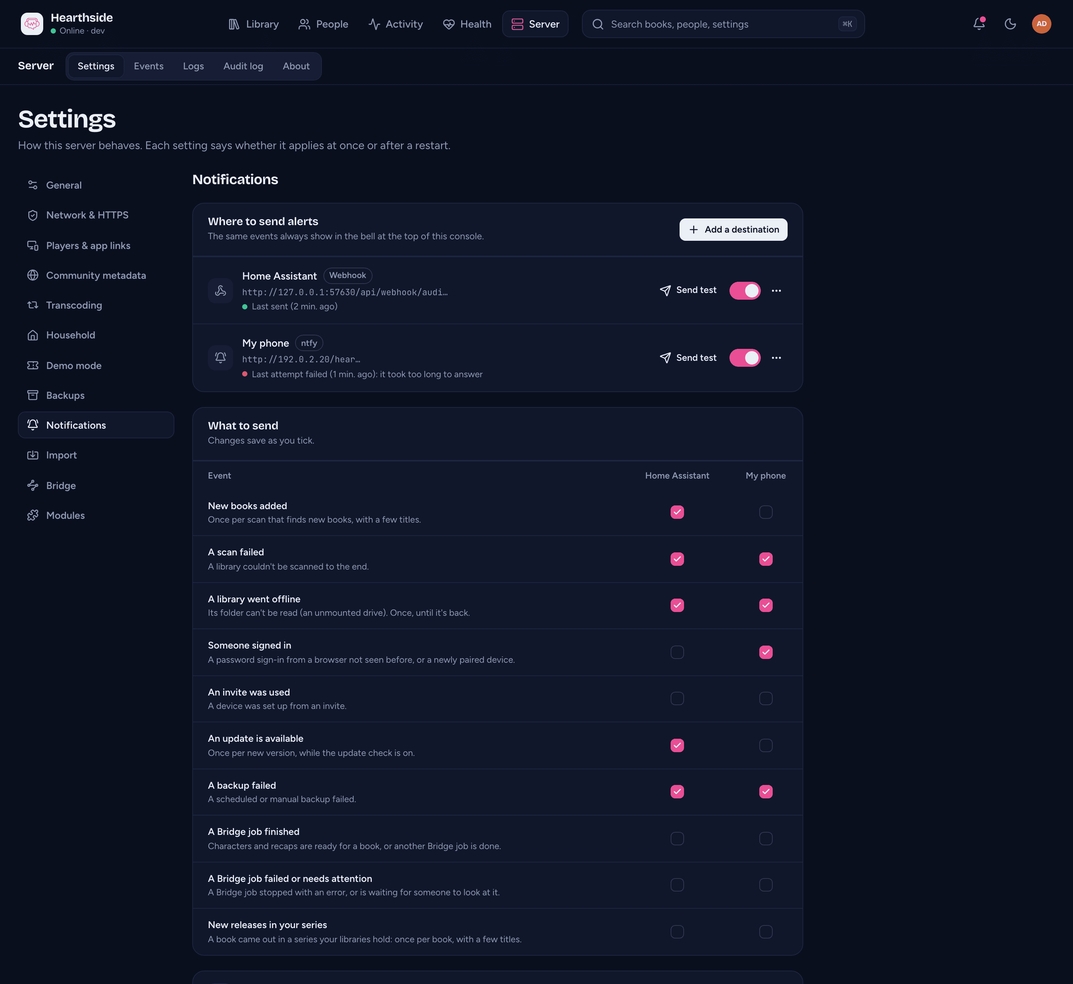
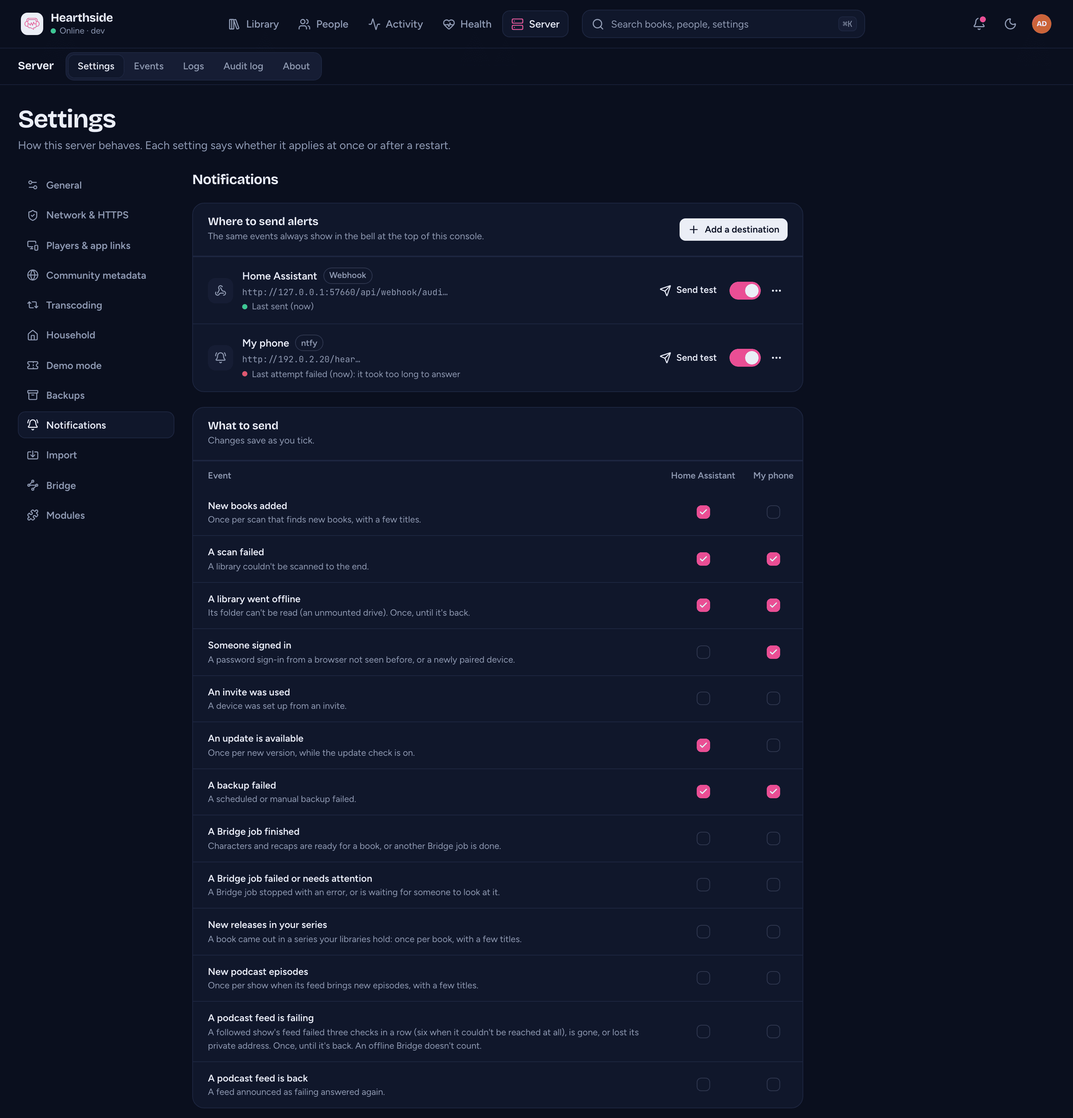
Document the podcast notifications (new episodes, feed failing, feed recovered) (#313)
Documents the podcast notifications from KodeStar/audiosilo-server#232,
which shipped in KodeStar/audiosilo-server#402.

- **User guide.** `admin/notifications.md` and `admin/podcasts.md` add
the three admin-only events:
- new episodes: one per show per index, never on a first index, a rescan
or a backfill;
- a feed failing: after 3 failed polls in a row, or 6 for network
failures; `gone` and a lost secret are reported at once, and an offline
Bridge never counts;
  - a feed recovered.

A podcast library's scan no longer raises `book_added`. New kinds start
unticked on existing destinations. The destination dialog screenshot
shows the podcast events.
- **Developer docs.**
- `server/backups-and-notifications.md` owns the rules: the privacy rule
(codes and show names only, never error text or feed URLs; a private
show sends `private: true` with no titles, `show` or `show_path`), the
feed-failure codes and the Discord colours.
- `server/api/reference.md` covers the webhook data and the destination
kinds.
- `server/data-model.md` adds migration 0076 (`feed_failures`,
`feed_network_failures`, `failing_announced`).
- The mapping table in `contributing/documentation.md` now points at
these pages.

Review: one docs pass (simplify plus a fact check of every claim against
server main 52ee43a and `internal/notify/notify.go`). It fixed four
gaps. `npm run build` passes with no broken links.

diff --git a/docs-developers/contributing/documentation.md b/docs-developers/contributing/documentation.md
@@ -103,7 +103,7 @@ mappings:
 | Auth, invites, shares | [server/auth-and-security.md](../server/auth-and-security.md) + `/users/admin/users-and-invites`, `/users/admin/sharing` |
 | Rate limiting (`api/ratelimit.go`, `rateLimit`, `requireAuth`/`mediaAuth`'s per-credential buckets, `rate_limit.*`) | [auth-and-security.md](../server/auth-and-security.md#rate-limiting) + [api/index.md](../server/api/index.md#rate-limiting) + [configuration.md](../server/configuration.md#rate-limits-rate_limit) + `/users/getting-started/remote-access` (why it's safe, the reverse proxy), `/users/troubleshooting` (Too many tries) |
 | The Bridge: the server's side (`auth/bridge.go`, `internal/bridge`, `handlers_bridge.go`, `handlers_bridge_estimate.go`, the `bridge` capability, the console's `features/bridge/`) or `audiosilo-bridge` (its config, images, compose example, mapping checks, job runner, page, the agent container and its credential hand-off, `sidecars.generate`, `sidecars.describe`, `sidecars.contribute`, `meta.correct`, the setup checklist, the Accounts tab and its GitHub sign-in) | [the Bridge developer pages](../bridge/index.md) (index, pairing and jobs, mappings, characters and recaps, the .audiosilo folder, the agent container, contributions, configuration, development) + the [reference](../server/api/reference.md#the-bridge) + [api/index.md](../server/api/index.md#capability-flags---gate-your-features) (the capability, the codes, the bridge token) + [auth-and-security.md](../server/auth-and-security.md#bridge-tokens) + [data-model.md](../server/data-model.md#the-bridge) + [backups-and-notifications.md](../server/backups-and-notifications.md#events) (the `bridge_job_*` events) + [web-ui.md](../server/web-ui.md) (the console's Settings > Bridge and the book page's Bridge parts) + the [cross-repo contract](../architecture/cross-repo-contract.md#16-the-bridge) (after the workspace `CROSS-REPO.md` §23) + `/users/admin/bridge`, `/users/admin/generating-characters-and-recaps`, `/users/getting-started/running-a-bridge` (its steps follow the setup checklist's order), `/users/getting-started/bridge-accounts` and `/users/community/contributing-from-your-server` + [meta/contributing-data.md](../meta/contributing-data.md#issues-filed-through-the-audiosilo-app) (what the Bridge files, and how meta routes it) + the `admin/settings-bridge*.png`, `admin/bridge-setup.png`, `admin/bridge-pair.png`, `admin/book-generate.png`, `admin/generate-dialog.png` and `admin/book-description.png` screenshots + the Bridge page's `bridge/*.png` screenshots (`capture-bridge.mjs`: `BRIDGE=<checkout> SHOTS_ONLY=bridge/ screenshots/run.sh`) |
-| Podcasts: library kind, `internal/podcast`, catalog/handlers, the Bridge's `podcastjob`, `netguard`, feed/Fetch files, downloads, on-demand/status/Retry and queue prefetch, listener fetch limits, claim priority/reserved capacity, retention aggregates/policies, generations/ETags, publication journals, CHAP or root markers; directory search and OPML (`internal/podcast/{discovery,opml,quota}`, `follow.go`, `opmlimport.go`, `export.go`, `podcasts.discovery.enabled`, the Podcast Index variables) | [bridge/podcasts.md](../bridge/podcasts.md) (with its [discovery and OPML](../bridge/podcasts.md#discovery-and-opml-transfer) section, its [player](../bridge/podcasts.md#player-phase-2d-1) and [player discovery and OPML](../bridge/podcasts.md#player-discovery-and-opml-phase-2d-2) sections) + [server/modules.md](../server/modules.md), [configuration.md](../server/configuration.md#managed-modules-modules) (and its [podcast discovery](../server/configuration.md#podcast-discovery-podcastsdiscovery) section), [API reference](../server/api/reference.md#podcasts) (including admin storage and Bridge retention), [API flags](../server/api/index.md#capability-flags---gate-your-features), [data-model.md](../server/data-model.md#podcasts), [scanner.md](../server/scanner.md#podcast-libraries), [auth-and-security.md](../server/auth-and-security.md#podcast-visibility), [bridge/configuration.md](../bridge/configuration.md#podcasts), [attachments.md](../bridge/attachments.md#podcast-chap-attachments), [mappings.md](../bridge/mappings.md#podcast-libraries-the-marker), [pairing-and-jobs.md](../bridge/pairing-and-jobs.md#podcast-jobs), [bridge/index.md](../bridge/index.md), [cross-repo-contract.md](../architecture/cross-repo-contract.md#17-podcast-shows-feeds-and-client-visibility) + `/users/admin/podcasts`, `/users/admin/libraries`, `/users/admin/bridge`, `/users/admin/server#modules`, `/users/getting-started/running-a-bridge`, `/users/faq` (what a directory search sends) + `admin/libraries.png`, `admin/library-add.png`, `admin/library-add-podcasts.png`, `admin/library-edit.png` and `admin/settings-modules.png` |
+| Podcasts: library kind, `internal/podcast`, catalog/handlers, the Bridge's `podcastjob`, `netguard`, feed/Fetch files, downloads, on-demand/status/Retry and queue prefetch, listener fetch limits, claim priority/reserved capacity, retention aggregates/policies, generations/ETags, publication journals, CHAP or root markers; directory search and OPML (`internal/podcast/{discovery,opml,quota}`, `follow.go`, `opmlimport.go`, `export.go`, `podcasts.discovery.enabled`, the Podcast Index variables) | [bridge/podcasts.md](../bridge/podcasts.md) (with its [discovery and OPML](../bridge/podcasts.md#discovery-and-opml-transfer) section, its [player](../bridge/podcasts.md#player-phase-2d-1) and [player discovery and OPML](../bridge/podcasts.md#player-discovery-and-opml-phase-2d-2) sections) + [server/modules.md](../server/modules.md), [configuration.md](../server/configuration.md#managed-modules-modules) (and its [podcast discovery](../server/configuration.md#podcast-discovery-podcastsdiscovery) section), [API reference](../server/api/reference.md#podcasts) (including admin storage and Bridge retention), [API flags](../server/api/index.md#capability-flags---gate-your-features), [data-model.md](../server/data-model.md#podcasts), [scanner.md](../server/scanner.md#podcast-libraries), [auth-and-security.md](../server/auth-and-security.md#podcast-visibility), [bridge/configuration.md](../bridge/configuration.md#podcasts), [attachments.md](../bridge/attachments.md#podcast-chap-attachments), [mappings.md](../bridge/mappings.md#podcast-libraries-the-marker), [pairing-and-jobs.md](../bridge/pairing-and-jobs.md#podcast-jobs), [bridge/index.md](../bridge/index.md), [cross-repo-contract.md](../architecture/cross-repo-contract.md#17-podcast-shows-feeds-and-client-visibility), [backups-and-notifications.md](../server/backups-and-notifications.md#podcast-events) (the podcast notifications) + `/users/admin/podcasts`, `/users/admin/notifications#podcasts`, `/users/admin/libraries`, `/users/admin/bridge`, `/users/admin/server#modules`, `/users/getting-started/running-a-bridge`, `/users/faq` (what a directory search sends) + `admin/libraries.png`, `admin/library-add.png`, `admin/library-add-podcasts.png`, `admin/library-edit.png` and `admin/settings-modules.png` |
 | The player's podcasts: `src/components/podcasts/`, `src/playback/episode-fetch.ts`, Home's New episodes (`new-episodes-*`, `use-new-episodes.ts`), the `shows` Library mode, `src/lib/library-kind.ts`, the podcast client gate (`auth.PodcastPlayerMinVersion`, `app.json` `expo.version`, `client-id.ts`), the gated whole-list replace (`catalog.GatedScopes`); finding shows (`find-shows-*`, `directory-search.tsx`, `discovery-*`, `follow-by-url.tsx`, `follow-requests.tsx`, `opml-*`, `use-opml-import.ts`, `shows-actions.tsx`, `check-episodes-button.tsx`, `artwork-retry.ts`, `src/lib/podcast-requests.ts`, `findShowsHref`, the `podcast_discovery` / `podcast_opml` client methods and hooks), the server's CORS lists (`corsAllowHeaders`, `corsExposeHeaders`) | [frontend/podcasts.md](../frontend/podcasts.md) (and its [Finding shows](../frontend/podcasts.md#finding-shows)) + [bridge/podcasts.md](../bridge/podcasts.md#player-phase-2d-1) (the wire and the controller's rules; [discovery and OPML](../bridge/podcasts.md#player-discovery-and-opml-phase-2d-2) for 2d-2) + [api/index.md CORS](../server/api/index.md#cors) and [cross-repo-contract.md §12](../architecture/cross-repo-contract.md#12-cors-for-web-development) + [auth-and-security.md](../server/auth-and-security.md#podcast-visibility) + the [reference](../server/api/reference.md#podcasts) (the gate, the replace rules) + [api/index.md](../server/api/index.md#client-identification-x-audiosilo-client) + the lines in [playback.md](../frontend/playback.md), [state-and-data.md](../frontend/state-and-data.md), [offline.md](../frontend/offline.md), [chromecast.md](../frontend/chromecast.md), [end-of-book.md](../frontend/end-of-book.md) and [kids-mode.md](../frontend/kids-mode.md) + `/users/listening/podcasts` (and the podcast lines in `browsing`, `up-next`, `end-of-book`, `offline-downloads`, `chromecast`, `kids-mode`, `mobile-apps`, `/users/troubleshooting`, `/users/admin/podcasts`, `/users/admin/server#modules`, `/users/faq`) + the `web-player/library-shows.png`, `podcast-show.png`, `home-new-episodes.png`, `episode-fetching.png`, `phone-podcast-show.png`, `find-shows-search.png`, `find-shows-address.png`, `find-shows-import.png` and `phone-find-shows.png` screenshots (the podcast seed in `run.sh` and its `directory` fixture; Find shows' stand-in routes in `capture-web.mjs`) |
 | Managed modules: the server's `internal/modules` (its `Runner`, the `builtin` registry), `api/modules.go`, a `modules.<id>` setting, the console's Settings > Modules (`features/settings/modules-topic.tsx`), the player's `src/modules/` registry and slots | [server/modules.md](../server/modules.md) (+ the adding-a-module steps) + [configuration.md](../server/configuration.md#managed-modules-modules) (the key, the variable, the runtime table) + the [reference](../server/api/reference.md#get-apiv1adminmodules) (`GET /admin/modules`, the settings envelope's `modules`, the module's flag on `GET /server`, the module's Bridge jobs) + [api/index.md](../server/api/index.md#capability-flags---gate-your-features) (the flag, `module_off`, `kid_account`, `demo_account`) + [bridge/pairing-and-jobs.md](../bridge/pairing-and-jobs.md#jobs-of-a-managed-module) (the jobs a module owns, held while it is off) + [web-ui.md](../server/web-ui.md) + [frontend/state-and-data.md](../frontend/state-and-data.md#player-modules-srcmodules) + the [cross-repo contract](../architecture/cross-repo-contract.md#8-capability-flags-get-apiv1server) + `/users/admin/server#modules` (the console's Learn more link opens it: keep the heading) + `/users/admin/bridge#when-the-contributions-module-is-off` + the `admin/settings-modules.png` screenshot |
 | Audible accounts, backups and position sync (Bridge Phases 4a, 4b and 4c): the server's `catalog/audible.go`, `catalog/audible_import.go`, `catalog/audible_sync.go` (and FurthestOnly in `catalog/listening_sync.go`), `internal/audible` (the scheduler, `imports.go`), `bridge/audible.go` (`audible.poll`, `audible.import`, `audible.sync`), `api/handlers_audible.go`, `api/handlers_audible_sync.go`, `0063`, `0064`, `0065` (planned destinations, contests), `0066` (sync, `no_sync`, `progress.change_seq`), the `audible` module and flag, the console's `features/audible/` (the Audible accounts card, Settings > Audible); the Bridge's `internal/audible` (the client, the build-tagged fake and `AUDIOSILO_BRIDGE_AUDIBLE_*`), `audibleacct`, `audiblejob` (`import.go`), `audiblesync` (the job and the push loop), `link/audiblesync.go`, `0011` (`audible_push`, `refusal_kind`), `importjob`, `placement`, `transfer`, `fsutil`'s install, `link/audible.go`, `0009`, `0010` (the device profile), `redact.go`, `audiblejob/plan.go`, the Accounts tab's `AudibleCard`, the `audible` setup item | [bridge/audible.md](../bridge/audible.md) + [bridge/configuration.md](../bridge/configuration.md#audible) (and its Secrets) + [bridge/development.md](../bridge/development.md) (the tagged gate) + [pairing-and-jobs.md](../bridge/pairing-and-jobs.md#audible-jobs) (and its setup checklist) + the [reference](../server/api/reference.md#audible-accounts) (and 4c's [position sync](../server/api/reference.md#audible-position-sync) routes, the reserved `audible:` device id on `/me/listening/sync` and the progress `PUT`, and the module flag on `GET /server`, `features`, `GET /admin/modules`) + [api/index.md](../server/api/index.md#capability-flags---gate-your-features) (the flag, the codes) + [server/modules.md](../server/modules.md) + [configuration.md](../server/configuration.md#managed-modules-modules) + [data-model.md](../server/data-model.md#the-bridge) (`0063`, `0064`, `0065`, `0066`; `progress.change_seq`) + [web-ui.md](../server/web-ui.md) + the [cross-repo contract](../architecture/cross-repo-contract.md#16-the-bridge) (after the workspace `CROSS-REPO.md` §8, §23 and §25) + `/users/admin/audible` (its sync section), `/users/listening/playback` (Places from Audible), `/users/getting-started/bridge-accounts#audible`, `/users/admin/bridge` (the card, the setup step), `/users/admin/server#modules` + the `admin/audible-accounts-card.png`, `admin/audible-titles.png`, `admin/audible-backup-settings.png`, `admin/audible-backup-all.png`, `admin/audible-destination.png`, `bridge/accounts-audible.png` and `bridge/audible-sign-in.png` screenshots (`capture-bridge.mjs` against a Bridge built with `-tags audiblefake` and the fake: `SHOTS_ONLY=bridge/,admin/audible screenshots/run.sh`). Copy about backing up says "a personal backup of books you bought" and "check your local law", never that it is legal everywhere |

diff --git a/docs-developers/server/backups-and-notifications.md b/docs-developers/server/backups-and-notifications.md
@@ -324,7 +324,7 @@ subscribed to its kind. A nil `*Service` does nothing, so callers don't check.
 
 | Kind | Fired by | `data` |
 |---|---|---|
-| `book_added` | `Scanner.OnRunFinished`: a scan job ending `ok` or `partial` that added books (once per scan) | `library`, `library_id`, `count`, `titles` (the first five) |
+| `book_added` | `Scanner.OnRunFinished`: a scan job ending `ok` or `partial` that added books (once per scan), never for a podcast library, whose episodes are `podcast_episodes_new` | `library`, `library_id`, `count`, `titles` (the first five) |
 | `scan_failed` | a scan job ending `failed` | `library`, `library_id`, `run_id`, `detail` (the error, as the scan's log has it; **bell only**, see below) |
 | `library_unavailable` | a scan job ending `unavailable`, only when the library's previous scan that reached an answer wasn't unavailable. `catalog.PreviousRunStatus` passes over cancelled, interrupted and running scans, so a restart in between doesn't announce it again. | `library`, `library_id` |
 | `new_device` | every pairing exchange (`POST /auth/exchange`), and a password sign-in (`POST /auth/login`) unless an earlier session of the same person already carried its `device_id` (`auth.IssueSession`). A sign-in without a `device_id` always counts. Never for demo accounts. | `user`, `device` (the name the client sent, one plain line of at most 100 characters), `app` (from `X-AudioSilo-Client`, may be empty) |
@@ -334,6 +334,9 @@ subscribed to its kind. A nil `*Service` does nothing, so callers don't check.
 | `bridge_job_finished` | `bridge.Service.OnTransition` (wired by `API.SetBridge`): a [Bridge](../bridge/index.md) job moved **into** `done` | `job_id`, `job_kind`, `state`, `library`, `library_id`, `path`, `title`, plus per-kind fields. See [Bridge event data](#bridge-event-data). |
 | `bridge_job_failed` | the same hook, for a job that moved **into** `failed` or into a notable `needs_attention`. See [Bridge event data](#bridge-event-data). | as `bridge_job_finished`, plus `code` and `detail` |
 | `book_released` | the [upcoming releases](api/reference.md#upcoming-releases) job (`upcoming.Runner`, wired to `API.announceReleases`). See [`book_released`](#book_released). | `count`, `titles` (the first five, each `Title (Series #position)`, or `Title (Series)` without a position) |
+| `podcast_episodes_new` | `catalog.IndexPodcastShow`, once per show per index that found episodes new to it. See [Podcast events](#podcast-events). | `library`, `library_id`, `show_id`, `show`, `show_path` (a private show: `private` instead), `count`, `titles` (the first five, newest first) |
+| `podcast_feed_failing` | `catalog.FoldPodcastJob` for a `podcast.poll` that makes the feed's run of failures due, or ends `gone` or `feed_secret_missing`. Once per run. | `library`, `library_id`, `show_id`, `show`, `show_path` (a private show: `private` instead), `code`, `failures` |
+| `podcast_feed_recovered` | `catalog.FoldPodcastJob` for the first successful `podcast.poll` after `podcast_feed_failing` | `library`, `library_id`, `show_id`, `show`, `show_path` (a private show: `private` instead) |
 
 `notify.Kinds` lists the kinds in this order, which is the order the console
 shows.
@@ -390,6 +393,70 @@ holds, and the server must hold no copy of it anywhere.
 - The first run, and the first read of a series, is a **silent baseline**. What
   is out already is marked, not announced.
 - `dedup_key` is `released:` plus a digest of the run's work ids.
+
+#### Podcast events
+
+The three podcast kinds go to the admins only. The catalog raises them through
+`catalog.SetPodcastNotice` after the write that found them commits, and
+`notify.Service.PodcastNotice` turns each `catalog.PodcastNotice` into an
+event.
+
+`podcast_episodes_new` comes from `catalog.IndexPodcastShow`. An episode is new
+when all of these hold:
+
+- the show was indexed before under the same `show_id`;
+- the episode's path wasn't indexed;
+- it isn't removed from the feed, and it was published after the show's
+  previous `latest_published`. When that date is ahead of the clock (a
+  mistyped date in the feed), the newest indexed episode not dated in the
+  future is used instead.
+
+So nothing is announced for a show's first index, a forced rescan of a feed
+already indexed, a rebuilt index or missing rows indexed again. The Bridge's rescan
+after a poll that grew the feed does announce. `dedup_key` is the library id,
+the show id and a digest of the new episode ids (`notify.SetDigest`), so the
+scheduled scan and the Bridge's rescan can't both announce the same episodes.
+
+`podcast_feed_failing` and `podcast_feed_recovered` come from
+`catalog.FoldPodcastJob`, for `podcast.poll` jobs only. A `podcast.subscribe`
+never changes the run. `podcast_folded` keeps a fold that runs twice from announcing twice.
+The run lives in `podcast_feed_state` (see the
+[data model](data-model.md#podcasts)); the older `failures` column still drives
+the backoff on its own. `catalog.feedRun.next` decides:
+
+- A failure whose code is the feed's own (`bridge.FeedFailure`: any code
+  outside `notFeedFailures`, the set the OPML import's
+  [recently failed feeds](api/reference.md#opml-import-and-export) use) adds
+  one to `feed_failures`.
+- Network-class codes (`bridge.NetworkFailure`: `dns`, `network`, `timeout`,
+  `tls`) also add one to `feed_network_failures`. Every show fails with these
+  at once while the Bridge's own internet is down.
+- The run is due (`feedRun.due`) at three of the feed's other failures
+  (`catalog.FeedFailingAfter`) or six network failures
+  (`catalog.NetworkFailingAfter`). A mixed run is due once other/3 plus
+  network/6 reaches 1, such as two HTTP errors and two timeouts.
+- `gone` is announced at once. `feed_secret_missing` is announced at once
+  without counting, with `failures` 0.
+- Any other failure, such as `bridge_lost` or an unwritable library, neither
+  counts nor resets the run. An offline Bridge claims no polls, so it adds
+  nothing either.
+- The run announces once (`failing_announced`). The next successful poll
+  resets it and, after an announcement, raises `podcast_feed_recovered` once.
+- A job for a replaced show (another `show_id` at the path) changes nothing.
+
+The data carry codes and names only, never the feed's address, its host or an
+error's text, which can hold a private feed's credentials:
+
+- `show` is the show's title, or its folder when it has none, one plain line of
+  at most 200 characters. `titles` are cut the same way.
+- `code` is one the messages have wording for (`gone`, `feed_secret_missing`, `dns`,
+  `network`, `timeout`, `tls`, `not_a_feed`, `not_a_podcast`, `too_large`,
+  `blocked_address`, `invalid_feed_url`) or an `http_NNN` status, else
+  `failed`.
+- `failures` is the feed's failures in a row, 0 for a lost secret.
+
+A private show is hidden from admins who don't follow it. Its events carry
+`private: true` instead of `show` and `show_path`, and `titles` is empty.
 
 #### Bridge messages
 
@@ -459,6 +526,18 @@ A `book_released` message reads `1 new release in your series` (or `N new
 releases in your series`), with the titles one a line and `and N more` after
 the fifth. It links to the console's Library > Series and carries the ntfy tag
 `new` (priority 3). The bell shows the first three titles, then "and N more".
+
+The podcast messages link to the console's Library > Libraries:
+
+| Kind | Title | Text |
+|---|---|---|
+| `podcast_episodes_new` | `1 new episode of <show>` or `N new episodes of <show>`; private: `A private podcast has 1 new episode` or `A private podcast has N new episodes` | the titles, one a line, then `and N more`; none for a private show |
+| `podcast_feed_failing` | `A podcast feed is failing: <show>`; private: `A private podcast feed is failing` | the code in words (`notify.feedCodeText`), `The feed answered HTTP <status>.` or `The Bridge couldn't check the feed.`, then `N checks in a row failed.` when `failures` is more than 1 |
+| `podcast_feed_recovered` | `A podcast feed is back: <show>`; private: `A private podcast feed is back` | "The feed answered again, so new episodes arrive as before." |
+
+The bell words the same codes in the console's language (`feedFailureBody` in
+`lib/server-events.ts`), with the titles `Podcast feed failing: <show>` and
+`Podcast feed back: <show>`.
 
 A failed scan's `detail`, and a failed Bridge job's, is the tool's or the
 operating system's own message, which can name a folder on the server, so it
@@ -532,7 +611,10 @@ The fields:
 - `secret`: at most 256 characters, no control characters. It is a webhook's
   signing secret or an ntfy access token. A Discord destination takes none,
   because its address is its secret.
-- `events`: known kinds only, with repeats dropped.
+- `events`: known kinds only, with repeats dropped. A destination gets only the
+  kinds it lists, so a kind a newer server adds starts unticked on every
+  existing destination. The console preselects its
+  [problem events](web-ui.md#server--settings--notifications) for a new one.
 
 A server has at most 20 destinations (`409 too_many_targets`).
 
@@ -624,10 +706,12 @@ non-ASCII titles encoded. With a secret, the service sends it as
 
 - `message` falls back to the title when an event has no text.
 - `click` is left out when there is no link.
-- Priority is 4 for `scan_failed`, `library_unavailable` and `backup_failed`,
-  and 3 otherwise.
+- Priority is 4 for `scan_failed`, `library_unavailable`, `backup_failed`,
+  `bridge_job_failed` and `podcast_feed_failing`, and 3 otherwise.
 - Tags are emoji shortcodes: `books`, `warning`, `electric_plug`, `iphone`,
-  `envelope`, `package`, `new` for a release, and `white_check_mark` for a test.
+  `envelope`, `package`, `new` for a release, `studio_microphone` for new
+  podcast episodes, and `white_check_mark` for a finished Bridge job, a feed
+  that is back and a test.
 
 ### Discord
 
@@ -648,8 +732,10 @@ A Discord delivery is one embed, posted to the webhook address:
 ```
 
 - The title is cut at 256 characters and the description at 4000.
-- The colour is blue for information, amber for `library_unavailable`, and red
-  for `scan_failed` and `backup_failed`.
+- The colour is blue for information, amber for `library_unavailable`,
+  `podcast_feed_failing`, a Bridge job that needs attention and a LibriVox book
+  left unmatched, and red for `scan_failed`, `backup_failed` and a failed Bridge
+  job.
 - `allowed_mentions` is empty, so a book title or a device name containing
   `@everyone` pings nobody.
 

diff --git a/docs-users/admin/notifications.md b/docs-users/admin/notifications.md
@@ -1,11 +1,12 @@
 ---
 title: "Get notifications"
-description: "Hear about new books, new releases, failed scans or backups, new sign-ins and updates, in the console's bell or on your phone, Discord or a webhook."
+description: "Hear about new books, new releases, new podcast episodes, failed scans or backups, new sign-ins and updates, in the console's bell or on your phone, Discord or a webhook."
 ---
 
 Your server can tell you when something happens: new books, a new release in a
-series you hold, a failed scan or backup, a new sign-in, an update. You always
-see these in the **bell** in the [admin console](console-tour.md). You can also
+series you hold, new podcast episodes, a failed scan or backup, a new sign-in,
+an update. You always see these in the **bell** in the
+[admin console](console-tour.md). You can also
 send them to your phone with [ntfy](https://ntfy.sh), to a Discord channel, or
 to a webhook such as Home Assistant. You need to be an admin.
 
@@ -55,7 +56,7 @@ Tick a box to send that event there. It saves as you tick.
 
 | Event | When it happens |
 |---|---|
-| **New books added** | A scan found new books. |
+| **New books added** | A scan found new books. A podcast library's new episodes come as **New podcast episodes** instead. |
 | **A scan failed** | A library couldn't be scanned. See [Health > Jobs](health.md#jobs). |
 | **A library went offline** | A library's folder can't be read, such as an unmounted drive. Nothing was removed. |
 | **Someone signed in** | A sign-in from a new device or browser. |
@@ -65,12 +66,39 @@ Tick a box to send that event there. It saves as you tick.
 | **A Bridge job finished** | The [Bridge](bridge.md) finished a job, such as [characters and recaps](generating-characters-and-recaps.md) or a [read-along](making-read-along.md). |
 | **A Bridge job failed or needs attention** | A Bridge job stopped with an error, or is waiting for you. |
 | **New releases in your series** | A book came out in a series you hold, and you don't have it. Needs **Check for upcoming releases** on ([Community metadata](server.md#community-metadata)). |
+| **New podcast episodes** | A followed show's feed brought new episodes. One message per show, with a few titles. See [Podcasts](#podcasts). |
+| **A podcast feed is failing** | A followed show's feed failed several checks in a row, is gone, or the Bridge lost its private address. |
+| **A podcast feed is back** | A feed reported as failing answered again. |
 
-Every event shows in the bell whether you send it anywhere or not.
+Every event shows in the bell whether you send it anywhere or not. When a server
+update adds a new event, it starts unticked on the destinations you already have.
+
+## Podcasts
+
+The podcast events need a [podcast library](podcasts.md). The server sends them
+like this:
+
+- **New podcast episodes** comes when a show's feed brings episodes newer than
+  the ones the server had. A show's first check sends nothing.
+- **A podcast feed is failing** comes after three failed checks in a row. When
+  the feed couldn't be reached at all, such as no answer in time, it waits for
+  six. That way a short outage of the Bridge's own internet sends nothing.
+- A feed that reports it is gone, and a private feed whose address the Bridge
+  lost, are reported at once.
+- An offline Bridge, or a library the Bridge can't write to, never counts as
+  the feed failing.
+- Each problem is reported once. When the feed answers again, you get
+  **A podcast feed is back**, also once.
+
+Only the followers of a [private feed](podcasts.md#private-feeds) can see its
+show. So its messages say "a private podcast", with no show name and no episode
+titles.
 
 ## What a message carries
 
 Messages carry names, book titles, counts and a link into the console (when the
 server has a [public address](server.md#general)). They never carry a
-password, invite code, token, IP address or a folder path on the server.
+password, invite code, token, IP address, a folder path on the server or a
+podcast feed's address. A failing feed's message says what went wrong, such as
+the HTTP status the feed answered.
 Messages are in English.

diff --git a/docs-developers/server/data-model.md b/docs-developers/server/data-model.md
@@ -1587,7 +1587,7 @@ show id. The current tables:
 | `podcast_feed_hashes` | Current and previous URL hashes, keyed `(library_id, sha256, show_path)`. Cascades with its indexed show. |
 | `podcast_episodes` | A rebuildable one-to-one row for `books.id`, with cascade. It holds the library and show path; the episode id and GUID; the publication; season, episode, type and explicit; the feed duration; the file's `present`; the generation; the removed time; and the duration source. 0054 adds `sha256`, `timeline_changed`, `fetch_json` and `feed_sig`. 0073 adds `indexed_at` (described after the table). |
 | `podcast_follows` | Durable `(user_id, library_id, show_path)`, the created time and the followed `show_id`. There is no FK to the show or `books`, so pruning keeps it, but a different show at the same path does not inherit private access. |
-| `podcast_feed_state` | Server-owned `(library_id, show_path, show_id)` validators; the last check, success and status; the error code and text; `secret_missing`; the failure count; the next poll. Not written to disk per poll. |
+| `podcast_feed_state` | Server-owned `(library_id, show_path, show_id)` validators; the last check, success and status; the error code and text; `secret_missing`; the failure count; the next poll. Not written to disk per poll. 0076 adds the failing-feed run (described after the table). |
 | `podcast_policies` | Durable `(library_id, show_path, show_id)` policy: `mode` (`keep`, `on_demand`, `archive`), `keep` (1..1000), `days` (0..365), `updated_at`. No override means Keep 3, days 7. |
 | `podcast_fetch_state` | Server-owned `(library_id, rel_path, show_id)` summary: a nullable `last_job_id`, failures, the next attempt, and a safe error code and text. Separate from poll status, with no FK to jobs or the episode index. |
 | `podcast_folded` | `job_id` primary key and the fold time `at`. Makes ended-job follow and status effects idempotent. |
@@ -1597,6 +1597,16 @@ index wrote the row with. A rollback scans a podcast library as books, so an
 older server can rewrite a books row in place. That row then no longer matches
 its stamp, and the next scan re-indexes the show. `PodcastEpisodeRows` counts
 only rows whose stamps agree, and `NULL` counts as matching.
+
+`podcast_feed_state.feed_failures`, `feed_network_failures` and
+`failing_announced` *(0076, all `INTEGER NOT NULL DEFAULT 0`)* are a feed's run
+of failed polls as the admin's notifications count it. `feed_failures` counts
+the polls in a row that the feed itself failed, and `feed_network_failures`
+how many of those were network-class. `failing_announced` records that
+`podcast_feed_failing` was raised for the run. The older `failures` still
+drives the backoff. A feed already failing at the upgrade counts from its next
+failure. The counting rules are in
+[Podcast events](backups-and-notifications.md#podcast-events).
 
 #### Ownership, cascades and private URLs
 
@@ -2231,6 +2241,7 @@ The migration history so far:
 | 0071 | `audible_sync_followups` | The `audible_title_match_update` trigger, recreated so a `preorder` title is left out of the sync and its release re-offers the book's place; `audible_accounts.refusal_ended_at` (see [The Bridge](#the-bridge)). No data moves |
 | 0073 | `podcast_episode_indexed` | `podcast_episodes.indexed_at`, backfilled from each episode's `books.indexed_at` (see [Podcasts](#podcasts)) |
 | 0074 | `book_hints` | [Match hints from an import](#match-hints-from-an-import): `book_hints` (`library_id` `ON DELETE CASCADE`, `path`, `source`, `asin` and `isbn` `TEXT NOT NULL DEFAULT ''`, `import_id` `INTEGER NOT NULL DEFAULT 0`, `set_at`; primary key `(library_id, path, source)`) and the index `idx_book_hints_import` on `import_id`. No data moves |
+| 0076 | `podcast_feed_notices` | `podcast_feed_state.feed_failures`, `feed_network_failures` and `failing_announced` (`INTEGER NOT NULL DEFAULT 0`), the failing-feed run of the podcast notifications (see [Podcasts](#podcasts)). No backfill |
 
 ## SQLite choices
 

diff --git a/docs-developers/server/api/reference.md b/docs-developers/server/api/reference.md
@@ -9751,8 +9751,11 @@ A destination reads:
 *Admin.* `{"targets": [...], "events": [...], "kinds": [...]}`: the
 destinations (oldest first), the event kinds the server knows (`book_added`,
 `scan_failed`, `library_unavailable`, `new_device`, `invite_redeemed`,
-`update_available`, `backup_failed`, `bridge_job_finished`, `bridge_job_failed`)
-and the destination kinds.
+`update_available`, `backup_failed`, `bridge_job_finished`, `bridge_job_failed`,
+`book_released`, `podcast_episodes_new`, `podcast_feed_failing`,
+`podcast_feed_recovered`) and the destination kinds. A kind a newer server
+adds starts unticked on existing destinations
+([Destinations](../backups-and-notifications.md#destinations)).
 
 ### `POST /api/v1/admin/notifications`
 
@@ -9834,7 +9837,9 @@ A failed delivery is not an HTTP error here: the answer is `200` either way,
 
 `data` per kind is in [Events](../backups-and-notifications.md#events) (a
 failed scan's `detail` is here, for the bell, but never sent to a destination);
-`next_before` is `0` on the last page. A `before` that isn't a non-negative
+`next_before` is `0` on the last page. Podcast events never carry the feed's
+address, and a private show's carry `private: true` instead of its name
+([Podcast events](../backups-and-notifications.md#podcast-events)). A `before` that isn't a non-negative
 number, or a `kind` that isn't an event kind, is `400`.
 
 ## Admin: audit log

diff --git a/docs-users/features.md b/docs-users/features.md
@@ -76,7 +76,7 @@ Everything else works with the server alone.
 - [Move over from Audiobookshelf](getting-started/coming-from-audiobookshelf.md): read the same folders, then bring book details and listening history across.
 - [Reach your server from outside your home](getting-started/remote-access.md): a domain name and a trusted certificate.
 - [Back up your server](admin/backups.md): scheduled and manual backups, and restore.
-- [Notifications](admin/notifications.md): new books, failed scans and sign-ins, on your phone, Discord or a webhook.
+- [Notifications](admin/notifications.md): new books and podcast episodes, failed scans and podcast feeds, and sign-ins, on your phone, Discord or a webhook.
 - [Activity](admin/activity.md): who is listening now, and listening over time.
 - [Server settings](admin/server.md): every setting in the admin console, plus updates and logs.
 - [The admin console](admin/console-tour.md): where everything lives.

diff --git a/docs-developers/bridge/podcasts.md b/docs-developers/bridge/podcasts.md
@@ -1102,6 +1102,10 @@ hours, or use `retry_after_seconds` clamped to 60 seconds through 24 hours.
 - Turning the module off stops scheduling and folding, and holds queued podcast
   jobs. Jobs already claimed can finish.
 
+The fold also counts a feed's failed polls in a row for the admin's
+notifications, separately from the backoff. See
+[Podcast events](../server/backups-and-notifications.md#podcast-events).
+
 **Downloads and retention.** The same scheduler considers them at startup, every
 minute, after follow or policy changes, and after committed podcast outcomes,
 including an unchanged poll.

diff --git a/docs-users/admin/podcasts.md b/docs-users/admin/podcasts.md
@@ -93,6 +93,9 @@ The server has the Bridge check each followed show's feed for new episodes. It
 checks recently active shows more often than quiet ones. The console's Bridge job list
 leaves these routine checks out.
 
+You can get a [notification](notifications.md#podcasts) when a followed show has
+new episodes, or when its feed keeps failing.
+
 Turning the Podcasts module off stops following, feed checks and downloads.
 Shows and episodes already on the server stay and still play.
 
